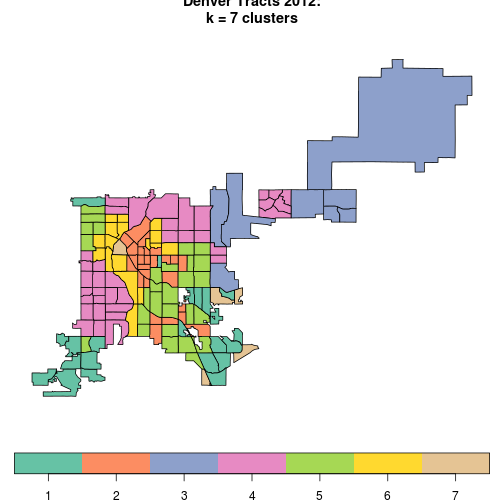
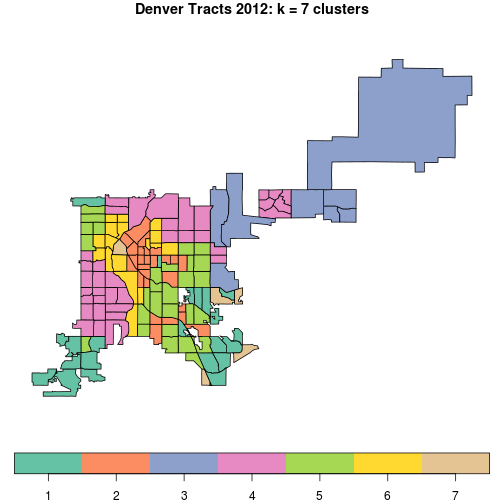
update slides

Changed region(s): [[0.2679, 0.0, 0.744, 0.0595]]

diff --git a/lecture_slides.md b/lecture_slides.md
@@ -1,8 +1,8 @@
-Lecture xx - Cluster Analysis
+Lecture 20 - Cluster Analysis
 ========================================================
 autosize: true
 width: 1600
-height: 900
+height: 1000
 
 GEOG 4023/5023 - Quantitative Methods  
 Spring 2018
@@ -15,7 +15,13 @@ Spring 2018
 
 
 
-Intro
+Introduction
+===
+<center>
+## What is your neighborhood like?
+</center>
+
+Introduction
 ===
 - Classification involves using data to group places, events, things into types.
 - In geography we are often interested classifying places into regions. 
@@ -76,7 +82,8 @@ We can also use cluster analysis to describe how places change over time:
 Doing Cluster Analysis: Continuous Data
 ===
 
-- Clusters are sometimes visually obvious in high-density regions of the "attribute space": lots of mutual neighbors.
+- Clusters are sometimes visually obvious in high-density regions of the "attribute space".
+- High-density regions = lots of mutual neighbors.
 - We can also describe each group member as being mutually closer to some "exemplar" or "centroid" than any other. 
 
 ***
@@ -122,8 +129,13 @@ kmclust = kmeans(clust_dat_z, centers = 7)$cluster # perform k-means and extract
 Clustering by (Dis)similarity
 ===
 - A **dissimilarity matrix** is like a "mileage chart" for our data.
-- An **affinity matrix** would be like inverse of a mileage chart (i.e. subtracting every distance from the max distance). 
+- An **affinity matrix** would be like inverse of a mileage chart (i.e. subtracting every distance from the max distance).
 - Both measures support different clustering tasks.
+  - e.g. clustering hierarchically vs. on nearest-neighbors
+
+*** 
+
+![plot of chunk unnamed-chunk-9](figs/dist_ex.png)
 
 Clustering by (Dis)similarity
 ===
@@ -141,7 +153,7 @@ Hierarchical Clustering
 - Clusters are recovered by "cutting" the dendrogram at a desired *k*. 
   
 ***
-![plot of chunk unnamed-chunk-9](figs/WPGMA_Dendrogram_5S_data.svg)
+![plot of chunk unnamed-chunk-10](figs/WPGMA_Dendrogram_5S_data.svg)
 
 
 Hierarchical Clustering: Linking/Sorting Strategies
@@ -175,16 +187,16 @@ dend = hclust(d = d, method = 'ward.D2')
 A Dendrogram of Denver Tracts
 ===
 <center>
-![plot of chunk unnamed-chunk-11](lecture_slides-figure/unnamed-chunk-11-1.png)
+![plot of chunk unnamed-chunk-12](lecture_slides-figure/unnamed-chunk-12-1.png)
 </center>
 
-Finding the "Correct" Number of Clusters 
+Finding a suitable 'k' 
 ===
 - Clusters should be **internally consistent** and **well separated**.
 - Often useful to consider variance-based and separation-based criteria.
 - Can iterate *k* groups and measure each of these criteria to find a "best" solution.
 
-Finding the "Correct" Number of Clusters: Variance-Based Criteria
+Finding a suitable 'k': Variance-Based Criteria
 ===
 <center>
 $$GOF = \frac{BSS}{TSS}$$
@@ -198,10 +210,10 @@ $$TSS = BSS + WSS$$
 
 Sometimes called **"Goodness of Variance Fit"**.
 - **TSS**: sum of squared distances from data centroid
-- **BSS**: sum of squared distances among group centroids
+- **BSS**: sum of squared distances between all group centroids and the data centroid
 - **WSS**: sum of squared distances between all group members and their centroid
 
-Finding the "Correct" Number of Clusters: Variance-Based Criteria
+Finding a suitable 'k': Variance-Based Criteria
 ===
 <center>
 $$GOF = \frac{BSS}{TSS}$$
@@ -214,18 +226,21 @@ $$TSS = BSS + WSS$$
 ***
 
 Look familiar? 
-- This is kind of like an OLS regression R^2 .
-- Instead of a "line of best fit" we have cluster assignments.
+- This is kind of like an R^2 diagnostic for OLS regression.
+- Instead of a "line of best fit" we have cluster centroids/labels.
 - The "explained" part (BSS) tells us how distinct the cluster centroids are.
 - The "unexplained" part (WSS) tells us how much observations vary about their centroid.
 
-Finding the "Correct" Number of Clusters: Separation-Based Criteria
+Finding a suitable 'k': Separation-Based Criteria
 ===
 - Clusters should inhabit "high density" portions of the attribute space.
-- Information provided by each cluster should be unique, and shared as little as possible with other clusters.
-- **Average Silhouette Width:** to what degree to clusters overlap?
+- Information provided by each cluster should be distinct, and shared as little as possible with other clusters.
+- **Average Silhouette Width:** to what degree do clusters overlap?
+  - 0 = high overlap
+  - 1 = high separation
+  - -1 = incorrect labels.
 
-Selecting a Best k for Denver Tracts
+Selecting k for Denver Tracts
 ===
 1. Specify a desired range of cluster numbers (here $k=3...10$).
 2. Cut the dendogram at each *k* and...
@@ -257,15 +272,16 @@ sil = sapply(krange, function(k){
 })
 ```
 
-Selecting a Best k for Denver Tracts
+Selecting 'k' for Denver Tracts
 ===
 
 <center>
-![plot of chunk unnamed-chunk-13](lecture_slides-figure/unnamed-chunk-13-1.png)
+![plot of chunk unnamed-chunk-14](lecture_slides-figure/unnamed-chunk-14-1.png)
 </center>
 
 ***
-<center>
+
+<left>
 
 |  k|  gof|  sil|
 |--:|----:|----:|
@@ -277,9 +293,9 @@ Selecting a Best k for Denver Tracts
 |  8| 0.29| 0.14|
 |  9| 0.29| 0.13|
 | 10| 0.30| 0.13|
-</center>
+</left>
 
-Map the Best Solution
+Map the Final Solution
 ===
 <center>
 
@@ -289,63 +305,68 @@ best_k = 7
 den_map['cluster'] = factor(cutree(dend, best_k))
 
 ## plot the map
-plot(den_map['cluster'],main = paste('Denver Tracts 2012:\nk =',best_k,'clusters'))
+plot(den_map['cluster'],main = paste('Denver Tracts 2012: k =',best_k,'clusters'))
 ```
 
-![plot of chunk unnamed-chunk-15](lecture_slides-figure/unnamed-chunk-15-1.png)
+![plot of chunk unnamed-chunk-16](lecture_slides-figure/unnamed-chunk-16-1.png)
 </center>
-
-"Built-in" Selection of k
-===
-Some methods handle selection of k themselves...
-  - Mutual **nearest-neighbors** (Graph Community Detection)
-  - **Threshold distance neighbors** (DBSCAN)
-  - **Mutual similarity to an exemplar** (Affinity Propagation) 
-  
-- Tradeoff: Sometimes these methods generate a lot of "singletons" or noise.
 
 Interrogating the Clusters
 ===
 - How well do the clusters match with prior expectations of data under analysis?
-  - i.e. we know "Downtown Denver" is distinct from the rest of the city
+  - e.g. We know "Downtown Denver" is distinct from the rest of the city.
 - How well do the clusters suit the objectives of the analysis? 
-  - i.e. revealing different "socially vulnerable" groups
+  - e.g. Revealing different "socially vulnerable" groups.
   
 Interrograting the Clusters
 ===
-- Outcome measures or a "ground-truth" can be useful.
+### Outcome measures or a "ground-truth" can be useful.
 - Do the clusters align well with a particular outcome?
-  - i.e. are flood losses concentrated more heavily in one cluster than others?
+  - e.g. Are flood losses concentrated more heavily in one cluster than others?
 - Do the clusters match a "ground truth" well?
-  - i.e. observations/categories from a field assessment
+  - e.g. Observations/categories from a field assessment.
 
 Comparing the Denver Tract Clusters to an Outcome Measure
 ===
 <center>
-![plot of chunk unnamed-chunk-16](lecture_slides-figure/unnamed-chunk-16-1.png)
+![plot of chunk unnamed-chunk-17](lecture_slides-figure/unnamed-chunk-17-1.png)
 
 ***
 
-![plot of chunk unnamed-chunk-17](lecture_slides-figure/unnamed-chunk-17-1.png)
+![plot of chunk unnamed-chunk-18](lecture_slides-figure/unnamed-chunk-18-1.png)
 </center>
 
 Profiling Clusters
 ===
 <center>
-An **average profile** plot tells us how far a cluster is above/below the data centroid on variables of interest:  
+An **average profile** plot tells us how far a above/below the data average a cluster is on variables of interest:  
 
-![plot of chunk unnamed-chunk-18](lecture_slides-figure/unnamed-chunk-18-1.png)
+![plot of chunk unnamed-chunk-19](lecture_slides-figure/unnamed-chunk-19-1.png)
 </center>
 
-Clustering Categorical Data
+Side Notes: "Built-in" Selection of k
 ===
-- Use "Model-based" clustering techniques like **Latent Class Analysis** (LCA)
-- Model parameters are determined using criteria similar to  logistic regression (maximum likelihood)...
-- ...but these describe the "shape" of groups rather than relationship to an outcome variable
+### Some methods handle selection of `k` themselves...
+  - **Mutual nearest-neighbors** (Community Detection)
+  - **Threshold distance neighbors** (DBSCAN)
+  - **Mutual similarity to an exemplar** (Affinity Propagation) 
+  
+_Tradeoff_: Sometimes these methods generate a lot of "singletons" or noise.
+
+
+Side Notes: Clustering Categorical Data
+===
+- Useful for grouping e.g. survey responses.
+- "Model-based" clustering techniques like **Latent Class Analysis** (LCA).
+- Model parameters are determined using criteria similar to logistic regression (maximum likelihood).
 - Information-theoretic criteria (i.e. AIC, BIC) are used to find a suitable *k*
 
 Conclusion
 ===
-- There are many different ways to design a cluster analysis.
-- Cluster analysis is humbling: there is seldom a "one size fits all" view of place.
-- Appropriate design depends on the _task at hand_ (i.e. knowledge discovery vs. confirmatory analysis).
+- Cluster analysis is useful to geographers because [xx].
+- Cluster analysis reveals that there is seldom a "one size fits all" view of place.
+- Research design depends on the _objectives_ of the research (i.e. knowledge discovery vs. confirmatory analysis):
+  - variable selection
+  - comparing cases
+  - clustering method
+  - interpretation
